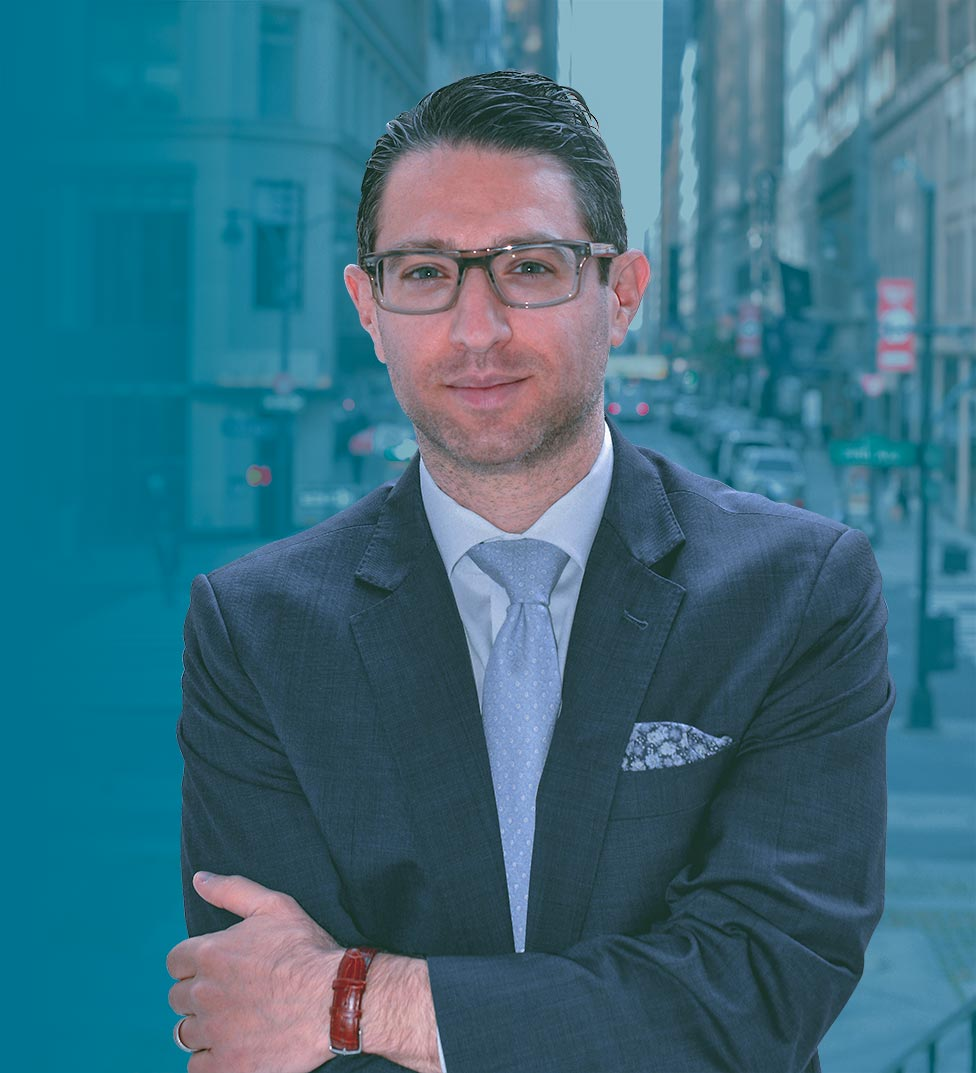
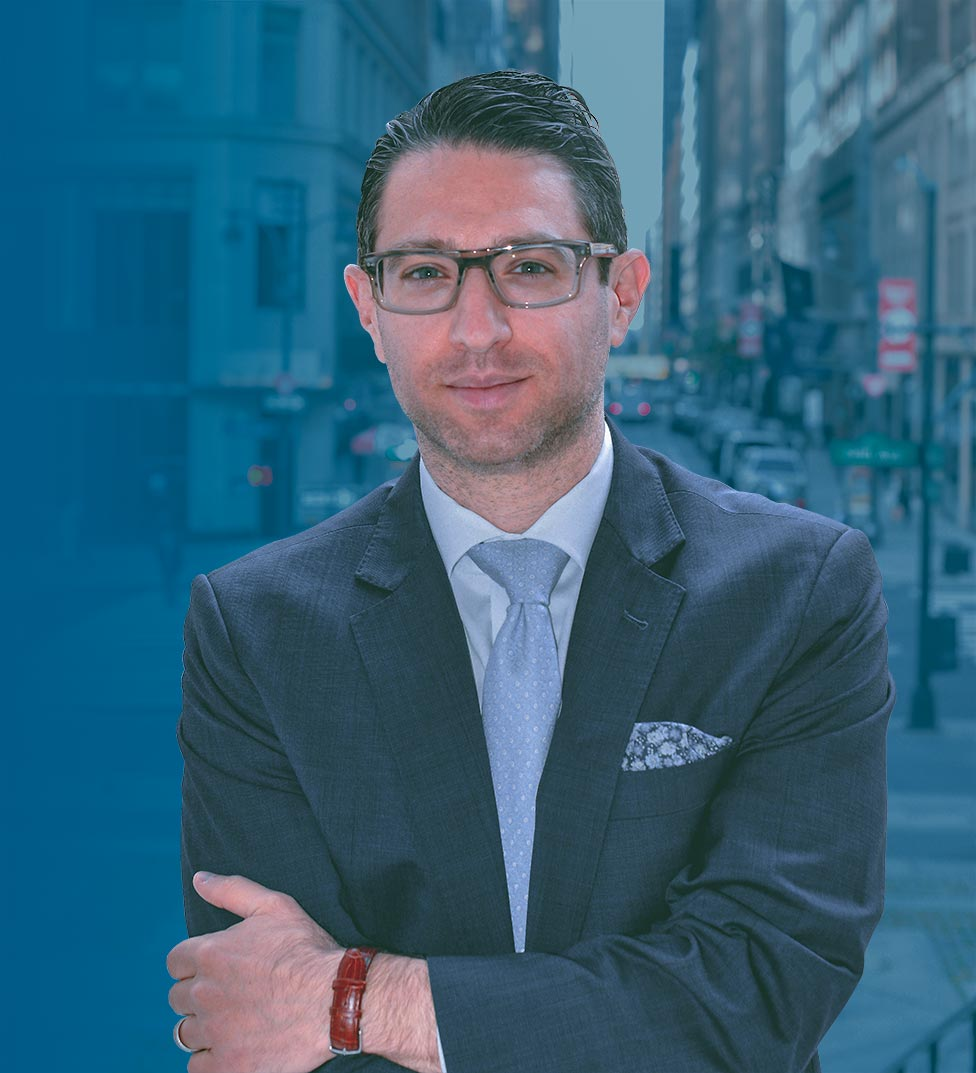
WIP

diff --git a/components/nav.js b/components/nav.js
@@ -1,5 +1,5 @@
 import React, { useState, useEffect } from 'react'
-import { useRouter } from 'next/router';
+import { useRouter } from 'next/router'
 import cn from 'classnames'
 import Link from 'next/link'
 import ActiveLink from './active-link'
@@ -10,8 +10,8 @@ export default function Nav({ forwardedRef }) {
   const [menuOpen, setMenuOpen] = useState(false)
   const [scrolled, setScrolled] = useState(false)
 
-  const router = useRouter();
-  const isHome = router.route === '/';
+  const router = useRouter()
+  const isHome = router.route === '/'
 
   const handleScroll = () => {
     const offset = window.scrollY
@@ -33,8 +33,8 @@ export default function Nav({ forwardedRef }) {
 
   const classes = {
     main: {
-      inactive: isHome && !scrolled ? 'text-white-50 hover:text-white-90 px-4 py-2' : 'text-gray-500 hover:text-gray-900 px-4 py-2',
-      active: isHome && !scrolled ? 'text-white-90 px-4 py-2' : 'text-gray-900 px-4 py-2'
+      inactive: isHome && !scrolled ? 'text-white-50 hover:text-white-90 lg:text-xl 3xl:text-2xl px-4 py-2' : 'text-black-50 hover:text-black-90 px-4 py-2',
+      active: isHome && !scrolled ? 'text-white-90 lg:text-xl 3xl:text-2xl px-4 py-2 3xl:px-5 3xl:py-3' : 'text-black-90 px-4 py-2'
     },
     mobile: {
       inactive: 'block px-4 py-2 rounded-md text-base font-semibold text-gray-900 hover:bg-gray-100',
@@ -42,8 +42,8 @@ export default function Nav({ forwardedRef }) {
     }
   }
 
-  // matches '/' and '/posts/[slug]'
-  const blogRegex = /^(?:^\/posts\/|^\/$)/
+  // matches '/' and '/posts/[slug]' and '/#blog'
+  const blogRegex = /^(?:^\/(#blog|posts\/)|^\/$)/
 
   return (
     <nav className={cn('fixed w-full top-0 left-0 z-40 transition bg-white transition-shadow duration-200', {
@@ -51,7 +51,7 @@ export default function Nav({ forwardedRef }) {
       'is-visible': scrolled || menuOpen,
       'shadow-md': scrolled || menuOpen
     })}>
-      <div ref={forwardedRef} className="flex flex-row items-center justify-between py-3 px-3 md:py-4 md:px-5">
+      <div ref={forwardedRef} className="flex flex-row items-center justify-between py-3 px-3 md:py-4 md:px-5 3xl:py-5 3xl:px-6">
         <div className="flex-none w-11 md:flex-1 md:w-auto flex justify-start">
           <ul className="hidden md:flex lg:text-lg font-semibold">
             <li>
@@ -81,21 +81,23 @@ export default function Nav({ forwardedRef }) {
         </div>
         <div className="logo flex-grow md:flex-1 flex justify-center">
           <Link href="/">
-            <a className="font-bold text-2xl md:text-3xl 2xl:text-4xl tracking-tight px-4 py-1 rounded-md">
+            <a className="font-bold text-gray-900 text-2xl md:text-3xl 2xl:text-4xl tracking-tight px-4 py-1 rounded-md">
               Evan Schein
             </a>
           </Link>
         </div>
-        <div className="flex-none w-11 md:flex-1 md:w-auto flex justify-end">
-        <Link href="/contact" passHref>
-          <Button
-            variant={isHome && !scrolled ? 'white' : 'primary'}
-            size="responsive"
-            className="hidden md:inline-block"
-          >
-            Contact
-          </Button>
-        </Link>
+        <div className={cn('flex-none w-11 md:flex-1 md:w-auto flex justify-end transition-opacity', {
+          'opacity-0 pointer-events-none': isHome && !scrolled
+        })}>
+          <Link href="/contact" passHref>
+            <Button
+              variant="primary"
+              size="responsive"
+              className="hidden md:inline-block"
+            >
+              Contact
+            </Button>
+          </Link>
         </div>
       </div>
       <div

diff --git a/components/hero.js b/components/hero.js
@@ -1,25 +1,36 @@
+import Link from 'next/link'
+import Image from 'next/image'
+
 export default function Hero() {
   return (
-    <section className="mb-16 home-hero lg:relative lg:flex lg:items-center bg-blue-700">
-      <div className="mx-auto max-w-full w-full text-center py-20 sm:py-24 md:py-36 lg:py-48 lg:text-left">
-        <div className="px-4 lg:w-1/2 sm:px-8 lg:pl-8 lg:pr-0">
-          <h1 className="text-6xl tracking-tighter font-extrabold text-gray-100 sm:text-7xl md:text-8xl lg:text-7xl xl:text-8xl 2xl:text-9xl">
+    <section className="home-hero lg:relative lg:flex lg:items-center bg-blue-800">
+      <div className="mx-auto max-w-full w-full text-center py-28 md:py-36 lg:py-48 lg:text-left lg:z-10">
+        <div className="px-4 lg:w-full sm:px-8 lg:pl-8 lg:pr-0 xl:pl-16 2xl:pl-24">
+          <h1 className="hero-title text-6xl tracking-tighter font-extrabold text-gray-100 sm:text-7xl md:text-8xl lg:text-7xl xl:text-8xl 2xl:text-9xl">
             Evan Schein
           </h1>
-          <p className="mt-3 mx-auto text-2xl text-white-50 tracking-tight sm:text-3xl md:text-4xl lg:text-3xl xl:text-4xl 2xl:text-5xl md:mt-5">
+          <p className="hero-subtitle mt-2 mx-auto text-2xl text-white-50 tracking-tight sm:text-3xl md:text-4xl lg:text-3xl xl:text-4xl 2xl:text-5xl 3xl:text-6xl">
             New York Divorce Lawyer
           </p>
           <div className="mt-10 sm:flex sm:justify-center lg:justify-start">
             <div className="rounded-md shadow">
-              <a href="#" className="w-full flex items-center justify-center px-8 py-3 border border-transparent text-base font-medium rounded-md text-white bg-blue-600 hover:bg-blue-500 md:py-4 md:text-lg md:px-10">
-                Get started
-              </a>
+              <Link href="/contact">
+                <a className="w-full flex items-center justify-center px-8 py-3 border border-transparent text-lg font-medium rounded-md text-white bg-green-600 hover:bg-green-500 lg:py-4 md:text-xl md:px-10 xl:text-2xl">
+                  Contact
+                </a>
+              </Link>
             </div>
           </div>
         </div>
       </div>
       <div className="hidden lg:block relative w-full h-64 sm:h-72 md:h-96 lg:absolute lg:inset-y-0 lg:right-0 lg:w-1/2 lg:h-full">
-        <img className="absolute inset-0 w-full h-full object-cover object-left" src="images/hero.jpg" alt="" />
+        <Image
+          src="/images/hero.jpg"
+          className="absolute inset-0 w-full h-full object-cover object-left"
+          alt="Evan standing in front of New York City street"
+          layout="fill"
+          priority
+        />
       </div>
     </section>
   )

diff --git a/components/podcast-cta.js b/components/podcast-cta.js
@@ -1,0 +1,28 @@
+import Image from 'next/image'
+
+export default function PodcastCta() {
+  return (
+    <div className="bg-gray-50 mb-16">
+      <div className="max-w-7xl mx-auto py-12 px-4 sm:px-6 lg:py-20 lg:px-8 lg:flex lg:items-center lg:justify-between">
+        <div>
+          <h2 className="text-3xl font-extrabold tracking-tight text-gray-900 md:text-4xl xl:text-5xl">
+            <span className="block">Marriage. Money. Divorce.</span>
+            <span className="block text-blue-600">And More.</span>
+          </h2>
+          <div className="my-4 prose prose-blue prose-lg xl:prose-xl text-gray-500">
+            <p>Evan is a family law and divorce attorney in New York City, and a partner and the Head of Litigation at <a href="https://www.berkbot.com/" target="_blank">Berkman Bottger Newman &amp; Schein</a>. He is the host of the podcast <a href="https://podcasts.apple.com/us/podcast/schein-on/id1541360422" target="_blank"><em>Schein On</em></a>, where he and his guests tackle tough legal, financial, and life issues, and talk about sports whenever they have an&nbsp;excuse.</p>
+          </div>
+        </div>
+        <div className="mt-10 flex lg:mt-0 lg:ml-16 lg:flex-shrink-0">
+          <Image
+            className="rounded-lg shadow-lg m-auto md:m-0"
+            src="/images/schein-on.png"
+            alt="Schein On Podcast"
+            width={320}
+            height={320}
+          />
+        </div>
+      </div>
+    </div>
+  )
+}

diff --git a/pages/index.js b/pages/index.js
@@ -1,9 +1,10 @@
+import Head from 'next/head'
 import Container from '../components/container'
 import MoreStories from '../components/more-stories'
 import Hero from '../components/hero'
 import Layout from '../components/layout'
+import PodcastCta from '../components/podcast-cta'
 import { getAllPostsForHome } from '../lib/api'
-import Head from 'next/head'
 
 export default function Index({ preview, allPosts }) {
   return (
@@ -13,7 +14,13 @@ export default function Index({ preview, allPosts }) {
           <title>Evan Schein</title>
         </Head>
         <Hero />
+        <PodcastCta />
         <Container>
+          <div className="mb-8">
+            <h2 className="text-base font-semibold text-blue-600 uppercase tracking-wide">Blog</h2>
+            <p className="mt-1 text-3xl font-extrabold tracking-tight text-gray-900 sm:text-4xl">Recent articles</p>
+            {/* <p class="mt-4 text-lg text-gray-500">Ac euismod vel sit maecenas id pellentesque eu sed consectetur. Malesuada adipiscing sagittis vel nulla nec.</p> */}
+          </div>
           {allPosts.length > 0 && <MoreStories posts={allPosts} />}
         </Container>
       </Layout>

diff --git a/tailwind.config.js b/tailwind.config.js
@@ -5,12 +5,16 @@ module.exports = {
   purge: ['./components/**/*.js', './components/**/*.css'],
   theme: {
     extend: {
+      screens: {
+        '3xl': '1920px'
+      },
       colors: {
         'accent-1': '#FAFAFA',
         'accent-2': '#EAEAEA',
         'accent-7': '#333',
         success: '#0070f3',
-        blue: colors.cyan,
+        blue: colors.lightBlue,
+        green: colors.cyan,
         'white-5': 'var(--es-white-5)',
         'white-10': 'var(--es-white-10)',
         'white-20': 'var(--es-white-20)',
@@ -55,9 +59,9 @@ module.exports = {
         DEFAULT: {
           css: {
             a: {
-              color: colors.cyan['600'],
+              color: colors.lightBlue['600'],
               '&:hover': {
-                color: colors.cyan['700'],
+                color: colors.lightBlue['700'],
               },
             },
           },

diff --git a/styles/index.css b/styles/index.css
@@ -32,9 +32,19 @@
   pointer-events: all;
 }
 
+@media (min-width: 1024px) {
+  .hero-title {
+    font-size: 5.5rem !important;
+  }
+}
+
 @media (min-width: 1280px) {
   .home-hero {
     height: 70vh;
+  }
+
+  .hero-title {
+    font-size: 6.5rem !important;
   }
 }
 
@@ -42,11 +52,25 @@
   .home-hero {
     height: 80vh;
   }
+
+  .hero-title {
+    font-size: 8rem !important;
+  }
 }
 
 @media (min-width: 1536px) {
   .home-hero {
     height: 90vh;
+  }
+
+  .hero-title {
+    font-size: 8.5rem !important;
+  }
+}
+
+@media (min-width: 1920px) {
+  .hero-title {
+    font-size: 10rem !important;
   }
 }
 

diff --git a/components/about-content.js b/components/about-content.js
@@ -28,6 +28,7 @@ export default function AboutContent() {
                     alt="Evan standing in front of New York City street"
                     width={1075}
                     height={1400}
+                    priority
                   />
                 </div>
                 <figcaption className="mt-3 flex text-sm text-gray-500">

diff --git a/components/container.js b/components/container.js
@@ -1,3 +1,3 @@
 export default function Container({ children }) {
-  return <div className="max-w-7xl mx-auto px-5">{children}</div>
+  return <div className="max-w-7xl mx-auto px-4 sm:px-6 lg:px-8">{children}</div>
 }

diff --git a/components/button.js b/components/button.js
@@ -1,4 +1,4 @@
-import { forwardRef } from 'react';
+import { forwardRef } from 'react'
 import cn from 'classnames'
 
 function Button(props, ref) {
